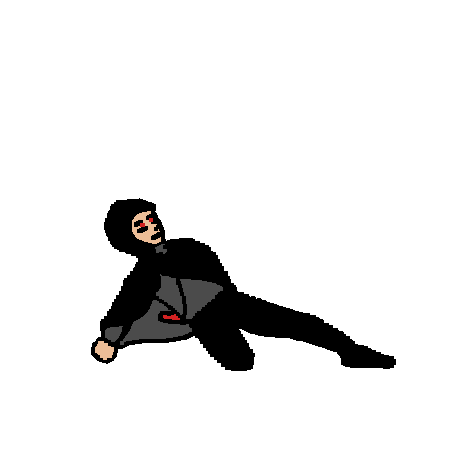
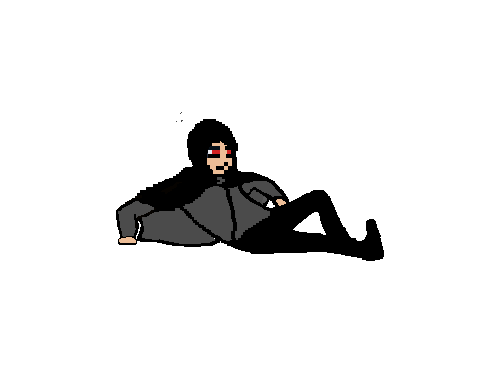
Animations changes v1.0

Changed region(s): [[0.178, 0.2941, 0.8602, 0.8235]]

diff --git a/Broken System/Assets/Scripts/PlayerController.cs b/Broken System/Assets/Scripts/PlayerController.cs
@@ -134,6 +134,9 @@ public class PlayerController : MonoBehaviour {
 	void  OnTriggerEnter2D (Collider2D other){
 		if (other.gameObject.CompareTag ("Obstaculo")) {
 			anim.SetTrigger ("Hurt");
+			jump = false;
+			attack = false;
+			sliding = false;
 			anim.SetTrigger ("Stand");
 			Update ();
 
